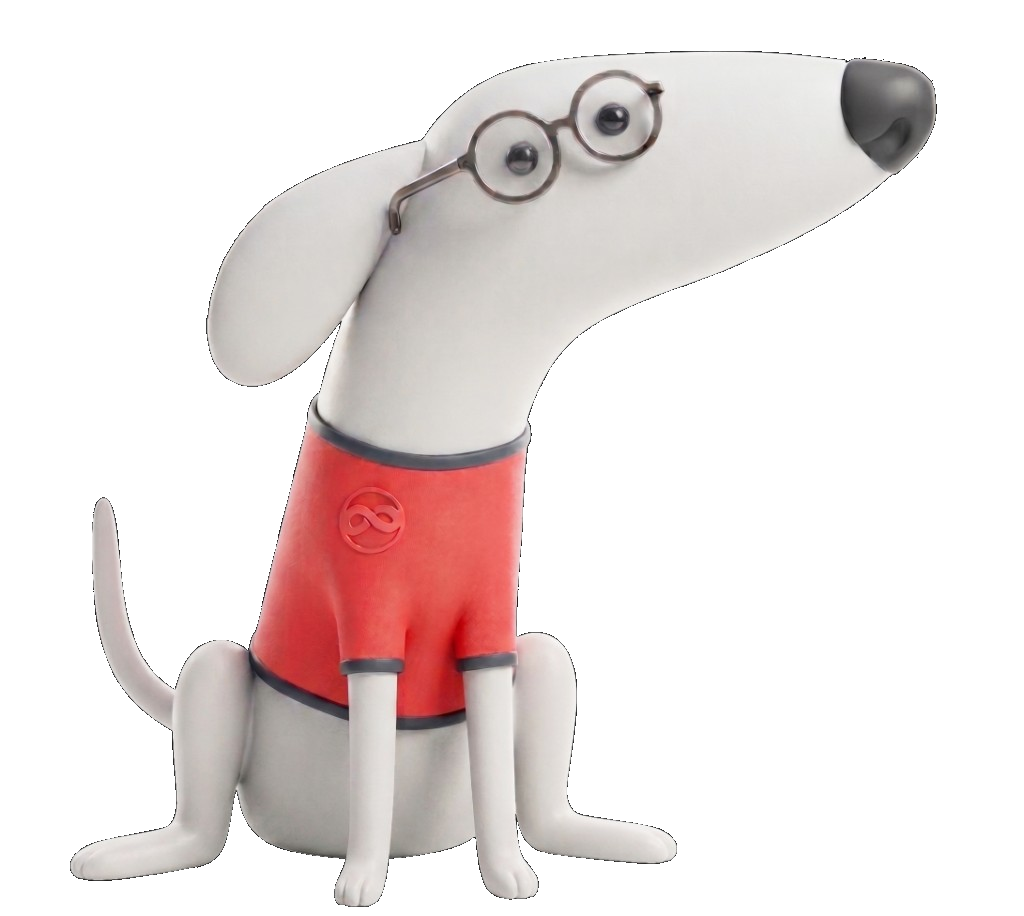
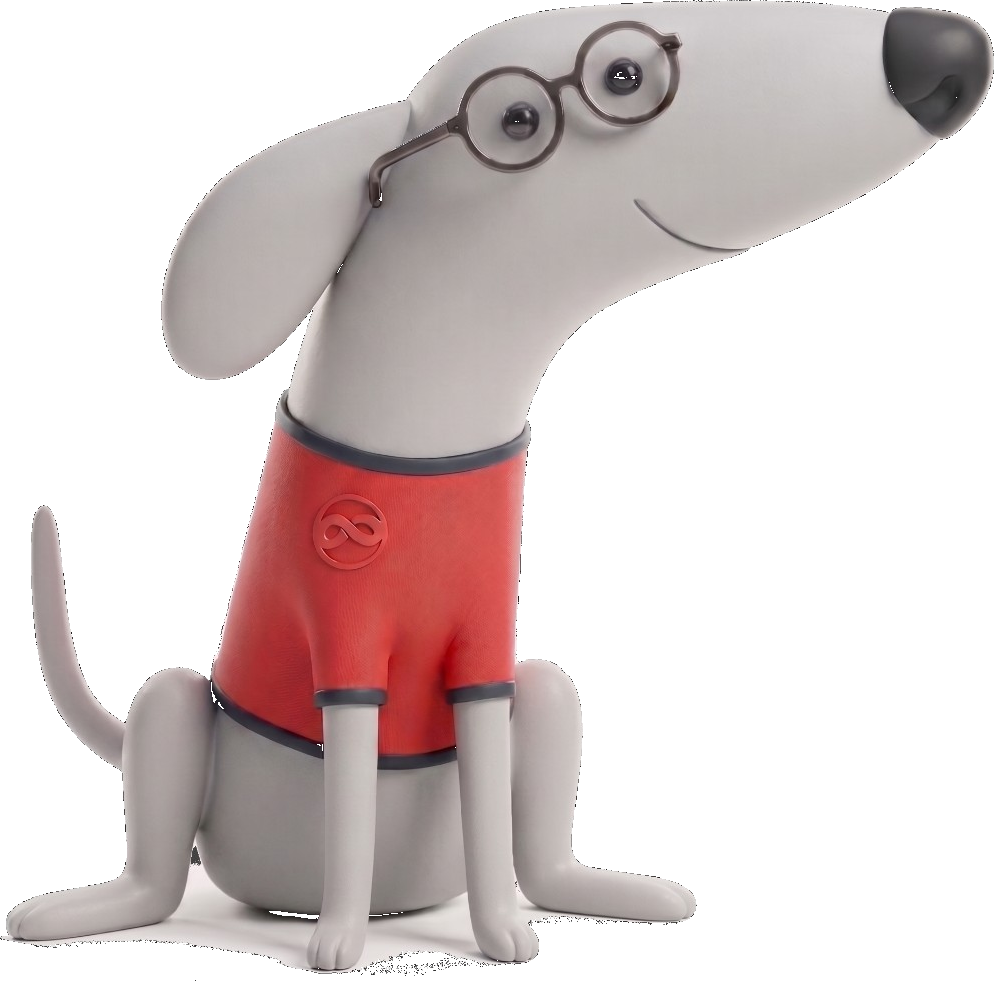
Fix invisible hero mascot with transparent dog image.
Replace the broken mascot asset with the provided cutout and align it to the bottom-right of the hero area.

diff --git a/index.html b/index.html
@@ -590,13 +590,14 @@
     .hero-mascot video {
       position: absolute;
       right: clamp(-48px, -5vw, -12px);
-      top: 0;
-      bottom: auto;
+      bottom: 0;
+      top: auto;
       width: min(437px, 36.8vw);
       max-width: none;
       height: auto;
       display: block;
       object-fit: contain;
+      object-position: right bottom;
       filter: drop-shadow(0 26px 40px rgba(48, 31, 24, 0.16));
       transition: opacity 220ms ease;
     }
@@ -607,16 +608,16 @@
     .hero-mascot.is-winter video {
       width: min(518px, 43.7vw);
       right: clamp(-56px, -6vw, -16px);
-      top: 0;
-      bottom: auto;
+      bottom: 0;
+      top: auto;
     }
 
     .hero-mascot.is-autumn img,
     .hero-mascot.is-autumn video {
       width: min(403px, 34.5vw);
       right: clamp(-40px, -4vw, -8px);
-      top: 4px;
-      bottom: auto;
+      bottom: 0;
+      top: auto;
     }
 
     .form-title {
